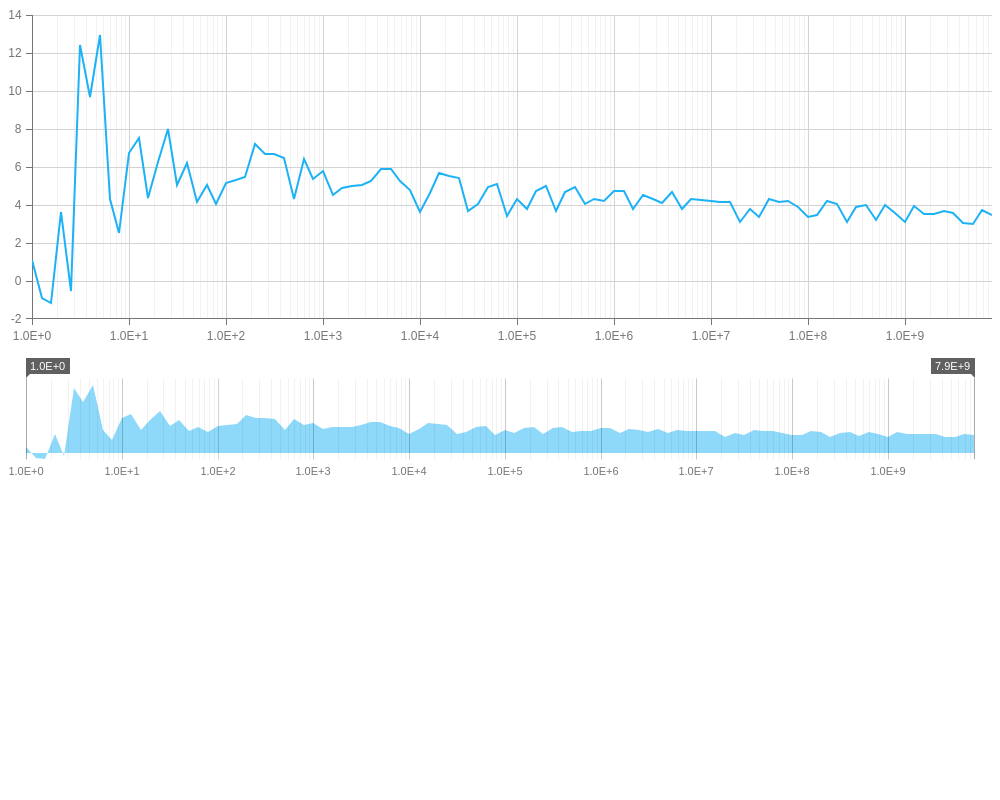
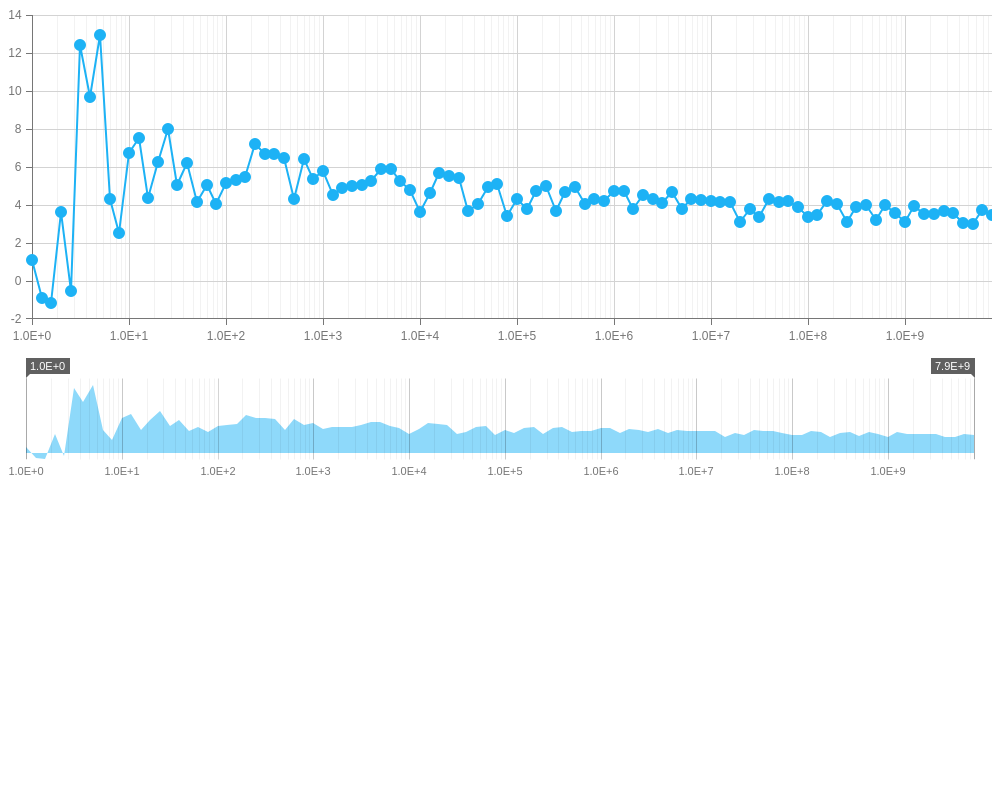
RangeSelector: Fix LogarithmicScale screenshot tests for non-jquery approaches (#1023)

diff --git a/JSDemos/Demos/RangeSelector/LogarithmicScale/test-code.js b/JSDemos/Demos/RangeSelector/LogarithmicScale/test-code.js
@@ -15,7 +15,7 @@
     var chart = dxChart.getInstance(document.getElementById("zoomed-chart")),
         rangeSelector = dxRangeSelector.getInstance(document.getElementById("range-selector"))
 
-    chart.option("series.point.visible", false);
+    chart.option("autoHidePointMarkers", false);
     chart.option("dataSource", ds);
     rangeSelector.option("dataSource", ds);
     chart.option = function(){};
